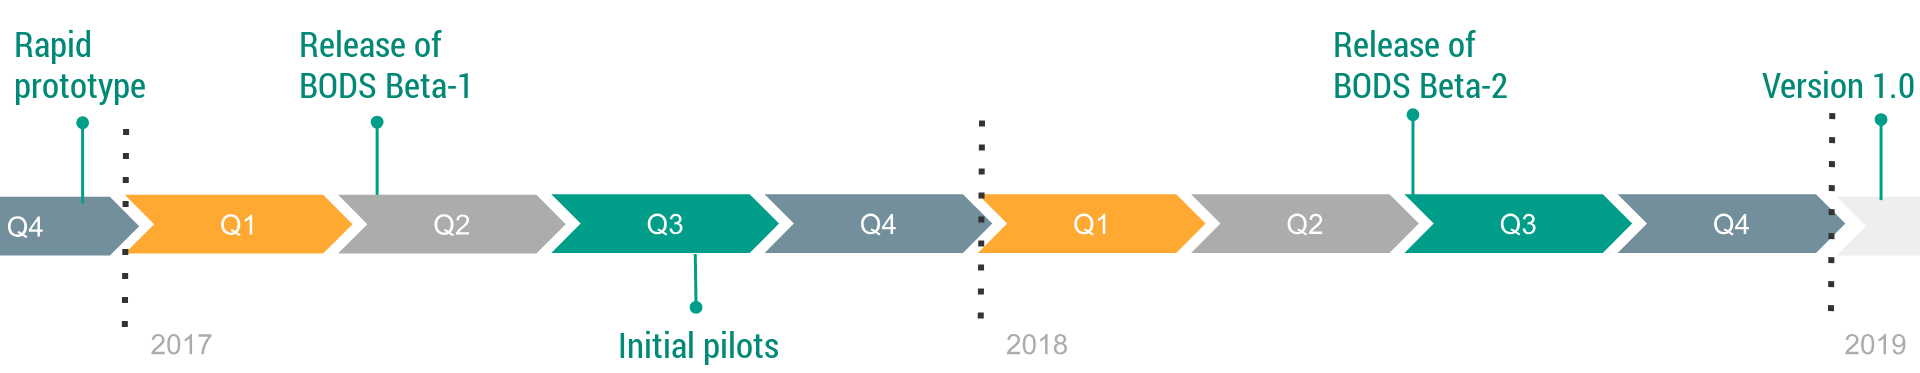
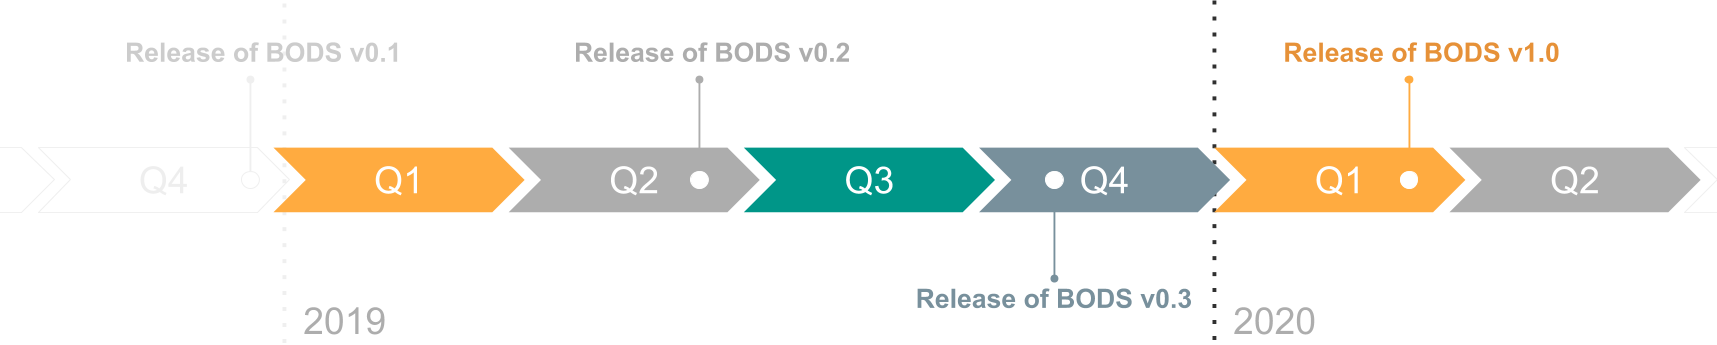
Bringing ChangeLog and About/index pages up to date

diff --git a/docs/schema/changelog.rst b/docs/schema/changelog.rst
@@ -18,6 +18,11 @@ ChangeLog
 
 Added
 -----
+- Support for representing details of indirect beneficial ownership relationships (where a beneficial owner owns or controls an entity through intermediaries):
+
+  - A required ``isComponent`` property has been added to all three Statement objects. It takes a boolean value and indicates whether a Statement represents part of a primary indirect ownership-or-control relationship.
+  - A ``componentStatementIDs`` property has been added to Ownership-or-control Statements. It takes an array of Statement IDs, indicating which component statements provide detail about the parent Ownership-or-control Statement.
+
 - A required ``publicationDetails`` property has been added to all three Statement objects. It represents metadata for Statements: information about their original publisher. Sub-properties (and their sub-properties) are:
 
   - ``publicationDate``\*
@@ -33,28 +38,55 @@ Added
 
 - A ``taxResidencies`` property has been added to Person Statements. It takes an array of Country objects.
 
+- Support for more structured accounts of missing and anonymised data:
+
+  - ``unspecifiedPersonDetails`` has been added to Person Statements (with a required ``reason`` sub-property)
+  - ``unspecifiedEntityDetails`` has been added to Entity Statements (with a required ``reason`` sub-property)
+
+  The ``reason`` sub-property draws on the Unspecified Reason codelist (as does the Ownership-or-control Statement's ``interestedParty.unspecified`` property).
+
 Changed
 -------
-- The interestType codelist has been amended:
+- The ``pepStatus`` property of Person Statements has been renamed ``pepStatusDetails`` (and still references an array of PEP Status objects).
 
+- The ``personType`` property of Person Statements is now required.
+
+- If ``Annotation.motivation`` is 'linking', ``Annotation.url`` is required.
+
+- The Interest Type codelist has been amended:
+
+  - 'influence-or-control' is renamed 'other-influence-or-control'
   - 'rights-to-surplus-assets' is renamed 'rights-to-surplus-assets-on-dissolution'
   - 'rights-granted-by-contract' has been added
   - 'conditional-rights-granted-by-contract' has been added
 
-- The ``pepStatus`` property of Person Statements has been renamed ``pepStatusDetails`` (and still references an array of PEP Status objects).
+- The Address Type codelist has been amended:
+
+  - 'home' has been removed (since 'residence' can be used instead)
+  - 'business' has been added
+
+- The Name Type codelist has been amended:
+
+  - 'alias', 'aka', and 'nick' have all been removed. They are replaced by 'alternative'
+  - 'transliteration' has been added
+
+- The Unspecified Reason codelist has been amended:
+
+  - 'information-unknown-to-publisher' has been added
+
+- All codelist codes now have descriptions.
 
 Removed
 -------
--
-
+- The ``missingInfoReason`` property has been removed from Person and Entity Statements. It has been replaced with ``unspecifiedPersonDetails`` and ``unspecifiedEntityDetails`` respectively.
 
 [0.1] - 2018-12-12
 ==================
 
 Added
 -----
-- ``beneficialOwnershipOrControl`` property added to Interest object. Takes a boolean value. Can be used to to assert that an interest between a natural person and an entity makes that person a beneficial owner.
-- ``pepStatus`` property add to Person Statement object. Allows a natural person to be recorded as a politically exposed person (with a related reason, jurisdiction, start date and end date).
+- ``beneficialOwnershipOrControl`` property added to Interest object. Takes a boolean value. Can be used to assert that an interest between a natural person and an entity makes that person a beneficial owner.
+- ``pepStatus`` property added to Person Statement object. Allows a natural person to be recorded as a politically exposed person (with a related reason, jurisdiction, start date and end date).
 - ``annotations`` property added to all three types of statement. Annotations provide a way of including additional (structured) data or transforming existing data in a targeted way.
 - An ``unspecified`` property replaces the ``nullParty`` option for interested parties.  An unspecifiedReason codelist provides options for describing why an interested party is not recorded. 
 

diff --git a/docs/about/index.md b/docs/about/index.md
@@ -16,7 +16,7 @@ The Standard is being developed under the guidance of a [working group](governan
 ```eval_rst
 
 .. figure:: ../_assets/timeline.png
-   :alt: Timeline of standard development. End of 2016: rapid prototype. 2017, Q2: release of BODS Beta-1. 2017, Q3: initital pilots. 2018, Q3: release of BODS Beta-2. 2019: release of BODS v1.0.
+   :alt: Timeline of standard development. 2018, Q4: release of BODS v0.1. 2019, Q2: release of BODS v0.2, Q4: release of BODS v0.3. 2020, Q1: release of BODS v1.0.
 
 ```
 This is v0.2 of the Beneficial Ownership Data Standard. The data model has been updated and additional codelist information added since v0.1.
@@ -55,7 +55,7 @@ The specification and documentation have been developed by [Open Data Services C
 
 <h2>License and contributor agreement</h2>
 
-Schema contents of the Open Ownership Register are Copyright 2016 World Wide Web Foundation on behalf of the Open Ownership Register Steering Group.
+Schema contents of the OpenOwnership Register are Copyright 2016 World Wide Web Foundation on behalf of the OpenOwnership Steering Group.
 
 The schema is licensed under the Apache License, Version 2.0.
 
@@ -63,4 +63,4 @@ Contributors are required to accept the [contributor agreement](https://github.c
 
 <h2>Contact</h2>
 
-For more details about OpenOwnership, please contact its coordinator, [Zosia Sztykowski](mailto:zosia@openownership.org)
+For more details about OpenOwnership, please email [support@openownership.org](mailto:support@openownership.org).
